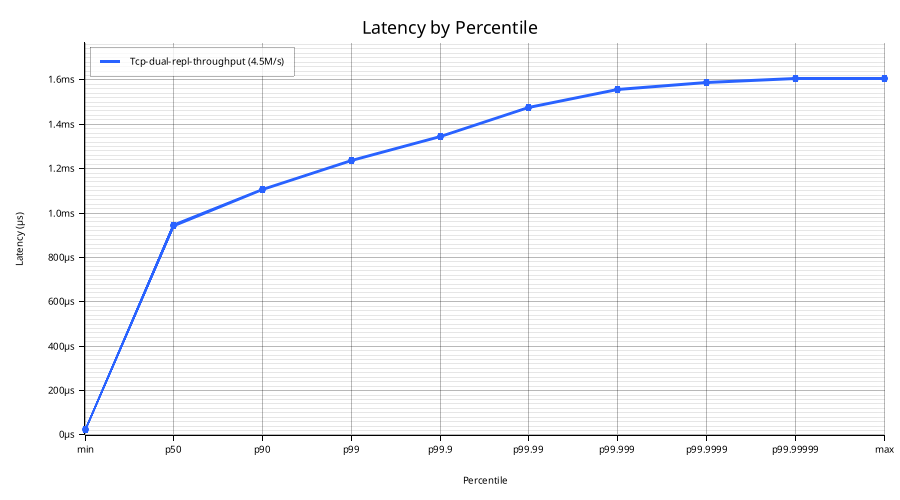
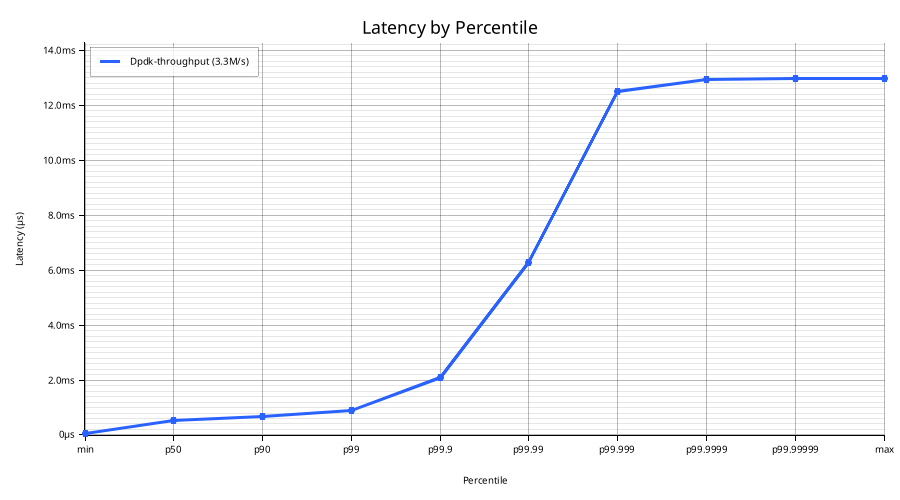
fix(bench): add gratuitous ARP and server MAC seeding for SR-IOV
On SR-IOV VFs, broadcast ARP doesn't work. The bench client couldn't
resolve the server's MAC via normal ARP, causing 25s connection
delays (relying on retransmissions) or permanent connection failure.

Two fixes:
- Send a gratuitous ARP on startup so the switch learns the bench
  client's MAC
- Seed the server's MAC into smoltcp's neighbor cache via an
  injected ARP reply. The server's VF MAC is derived from its DPDK
  IP (02:00:IP[0]:IP[1]:IP[2]:IP[3]) matching dpdk-setup-sriov.sh

Changed region(s): [[0.0311, 0.09, 0.9956, 0.87], [0.0311, 0.09, 0.0933, 0.12]]

diff --git a/crates/bench/src/dpdk.rs b/crates/bench/src/dpdk.rs
@@ -184,6 +184,78 @@ pub fn run_dpdk_roundtrip(
             .expect("default route");
     }
 
+    // SR-IOV VFs can't receive broadcast ARP, so normal ARP resolution
+    // fails. Two workarounds:
+    // 1. Send a gratuitous ARP so the switch learns our MAC.
+    // 2. Seed the server's MAC into smoltcp's neighbor cache via a crafted
+    //    ARP reply. The server's VF MAC is derived from its DPDK IP
+    //    (02:00:IP[0]:IP[1]:IP[2]:IP[3]) — same scheme as dpdk-setup-sriov.sh.
+    {
+        let our_ip = config.local_ip.octets();
+        let mut frame = [0u8; 42];
+        // Ethernet header: broadcast destination
+        frame[0..6].copy_from_slice(&[0xff; 6]);
+        frame[6..12].copy_from_slice(&mac);
+        frame[12..14].copy_from_slice(&[0x08, 0x06]); // ARP
+        // ARP: Ethernet + IPv4, request
+        frame[14..16].copy_from_slice(&[0x00, 0x01]); // hardware type: Ethernet
+        frame[16..18].copy_from_slice(&[0x08, 0x00]); // protocol type: IPv4
+        frame[18] = 6; // hardware size
+        frame[19] = 4; // protocol size
+        frame[20..22].copy_from_slice(&[0x00, 0x01]); // opcode: request
+        frame[22..28].copy_from_slice(&mac); // sender MAC
+        frame[28..32].copy_from_slice(&our_ip); // sender IP
+        frame[32..38].copy_from_slice(&[0xff; 6]); // target MAC
+        frame[38..42].copy_from_slice(&our_ip); // target IP = sender IP (gratuitous)
+        device.send_raw_frame(&frame);
+
+        // Seed the server's MAC into our neighbor cache.
+        let server_ip_bytes = match config.server_addr.ip() {
+            std::net::IpAddr::V4(v4) => v4.octets(),
+            _ => panic!("IPv6 not supported"),
+        };
+        let server_mac = [
+            0x02,
+            0x00,
+            server_ip_bytes[0],
+            server_ip_bytes[1],
+            server_ip_bytes[2],
+            server_ip_bytes[3],
+        ];
+        // Inject a crafted ARP reply into smoltcp so it learns the server's MAC.
+        let mut arp_reply = [0u8; 42];
+        arp_reply[0..6].copy_from_slice(&mac); // dest: us
+        arp_reply[6..12].copy_from_slice(&server_mac); // src: server
+        arp_reply[12..14].copy_from_slice(&[0x08, 0x06]); // ARP
+        arp_reply[14..16].copy_from_slice(&[0x00, 0x01]); // HW type
+        arp_reply[16..18].copy_from_slice(&[0x08, 0x00]); // Proto type
+        arp_reply[18] = 6;
+        arp_reply[19] = 4;
+        arp_reply[20..22].copy_from_slice(&[0x00, 0x02]); // opcode: reply
+        arp_reply[22..28].copy_from_slice(&server_mac);
+        arp_reply[28..32].copy_from_slice(&server_ip_bytes);
+        arp_reply[32..38].copy_from_slice(&mac);
+        arp_reply[38..42].copy_from_slice(&our_ip);
+        device.inject_rx(arp_reply.to_vec());
+
+        // Process the injected ARP reply so smoltcp populates its cache.
+        // Use a temporary empty socket set — no sockets needed for ARP.
+        let mut tmp_sockets = SocketSet::new(Vec::new());
+        device.poll_rx();
+        iface.poll(now, &mut device, &mut tmp_sockets);
+        device.flush_tx();
+
+        eprintln!(
+            "  ARP: sent gratuitous, seeded server MAC {:02x}:{:02x}:{:02x}:{:02x}:{:02x}:{:02x}",
+            server_mac[0],
+            server_mac[1],
+            server_mac[2],
+            server_mac[3],
+            server_mac[4],
+            server_mac[5]
+        );
+    }
+
     let mut sockets = SocketSet::new(Vec::with_capacity(num_clients + 1));
     let mut cached_ts = now;
     let mut poll_count: u32 = 0;